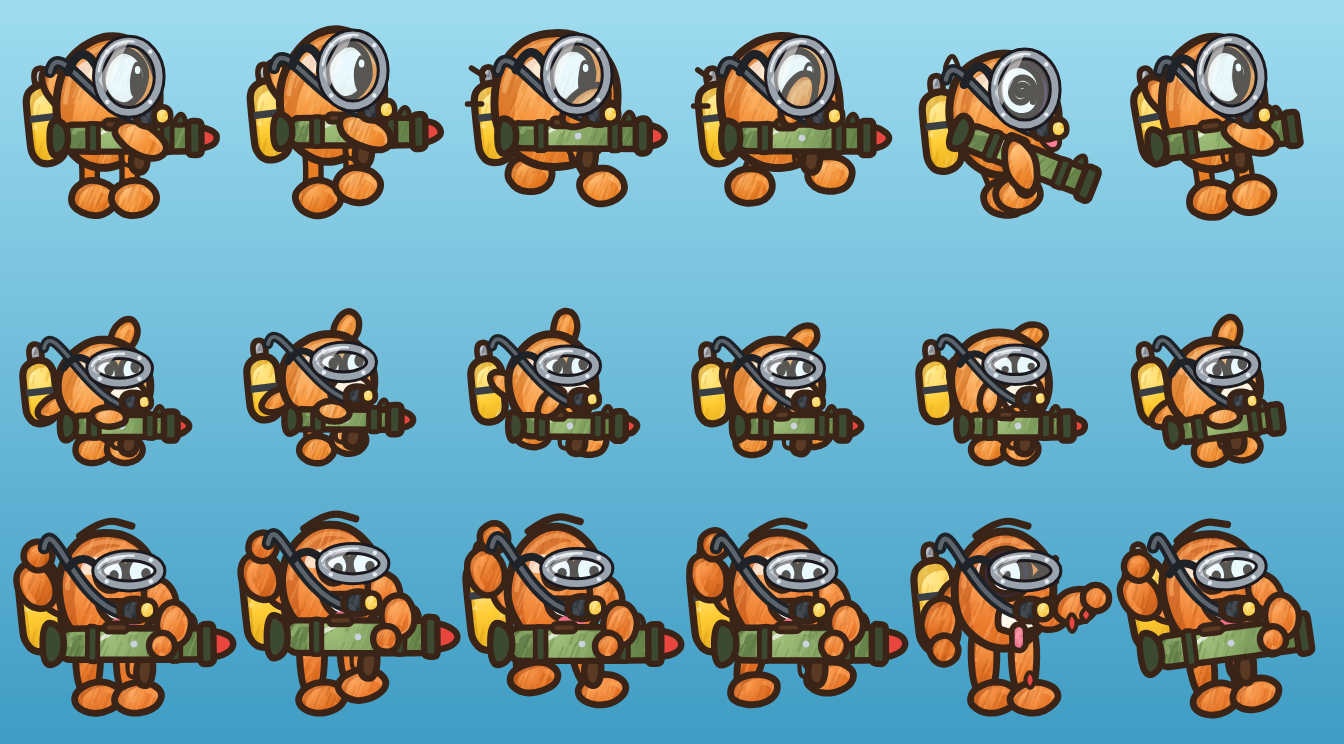
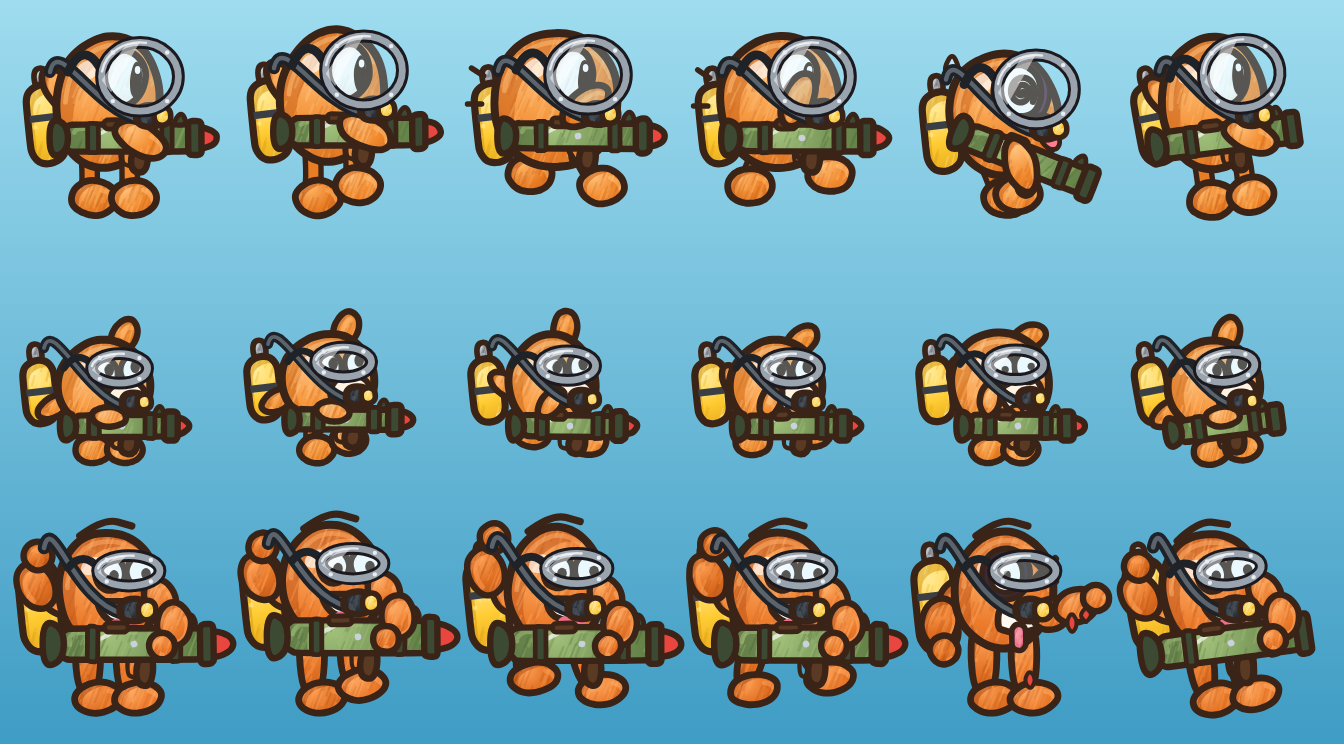
Dive mask: Puffy back to Big Muscles' oval mask, fitted to his face
No porthole: Puffy gets the same old-school oval as Big Muscles, sized for him (MASK_FIT puffy:
taller, so his big eye sits inside it, reaching across to his far-side eye). Big Muscles and
Scruffy unchanged.

Claude-Session: https://claude.ai/code/session_01J77fP5avCCtqdyudLnsw4o

diff --git a/src/gfx/draw.ts b/src/gfx/draw.ts
@@ -279,9 +279,9 @@ function drawRegulator(ctx: Ctx, ox: number, oy: number, ch: CharacterDef, pose:
   st.shape(ctx, [[mx - 3 * k.s, my - 2.6 * k.s], [mx + 3.4 * k.s, my - 2.8 * k.s], [mx + 3.8 * k.s, my + 2.8 * k.s], [mx - 3 * k.s, my + 2.6 * k.s]], { base: '#2b3036', shade: '#16191d', light: '#57606a' }, 8803, { lw: 0.8 });
   st.shape(ctx, ellipsePts(mx + 3.6 * k.s, my, 2.2 * k.s, 2.4 * k.s, 0, 14), { base: '#ffcc33', shade: '#d99a12', light: '#fff0a8' }, 8804, { lw: 0.7 });
 }
-/** A hero's own mask shape (middle x, y, radii; standing, frame units) where the both-eyes oval doesn't suit. */
+/** A hero's own mask oval (middle x, y, radii; standing, frame units) where the one from the eyes' spots doesn't fit. */
 const MASK_FIT: Record<string, [number, number, number, number]> = {
-  puffy: [32.2, 19.2, 7.6, 8.9],
+  puffy: [35, 19.2, 9.6, 8.6],
 };
 /**
  * The dive mask, old-school: a small oval glass faceplate snug over the eyes in a polished metal rim
@@ -294,8 +294,8 @@ function drawMask(ctx: Ctx, ox: number, oy: number, ch: CharacterDef, pose: Pose
   const x1 = Math.max(...G.lenses.map((l) => l.x + l.w / 2));
   const y0 = Math.min(...G.lenses.map((l) => l.y - l.h / 2));
   const y1 = Math.max(...G.lenses.map((l) => l.y + l.h / 2));
-  // (Puffy's seen from the side, one big eye: a round porthole round that eye alone, a little
-  // bigger than it; the others' oval covers both eyes)
+  // (Puffy: the same oval as the others, but sized to his face — tall enough for his one big eye,
+  // and long enough to reach across to his far-side eye)
   const fit = MASK_FIT[ch.id];
   const cx = fit ? fit[0] : (x0 + x1) / 2;
   const cy = fit ? fit[1] : (y0 + y1) / 2;
